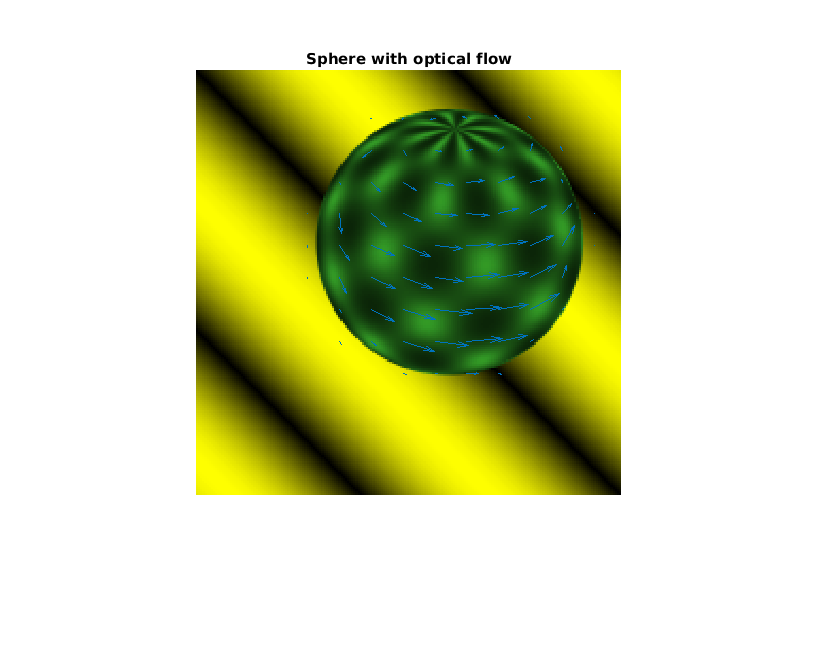
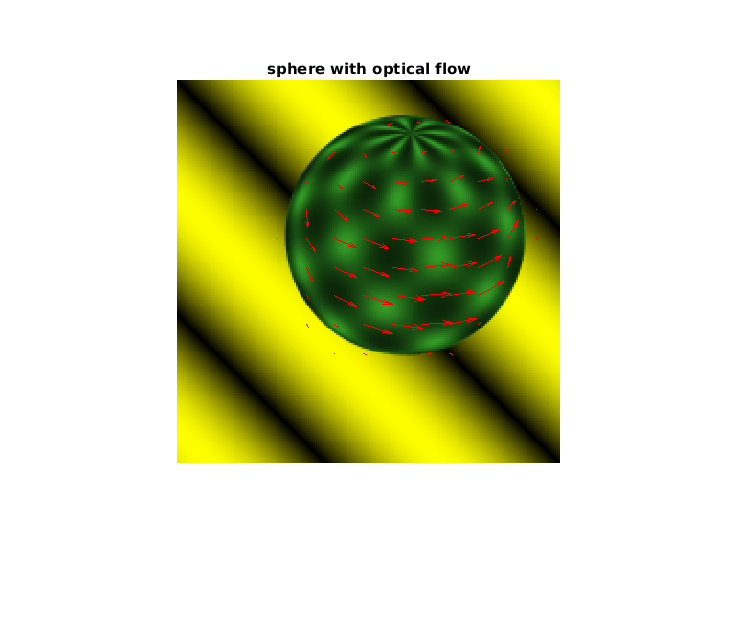
new Viz

diff --git a/assignment_3/scripts/main.m b/assignment_3/scripts/main.m
@@ -1,7 +1,7 @@
 % Uncomment for running particular part
 
-test = 'harris';
-% test = 'lucas';
+% test = 'harris';
+test = 'lucas';
 % test = 'tracking';
 
 region_size = 15;
@@ -56,8 +56,8 @@ end
 
 % 3.2 - 3.3
 if (strcmp(test,'lucas'))
-    test1 = 'syn';
-%     test1 = 'sphere';
+%     test1 = 'syn';
+    test1 = 'sphere';
     if (strcmp(test1,'syn'))
         img1 = imread('../synth1.pgm');
         img2 = imread('../synth2.pgm');
@@ -88,7 +88,9 @@ if (strcmp(test,'lucas'))
     axis equal
     imshow(img1);
     hold on
-    quiver(M(:,2) , M(:,1), u' , v');
+    q=quiver(M(:,2) , M(:,1), u' , v');
+    q.Color = 'red';
+
     
     if (strcmp(test1,'syn'))
         title('Syn with optical flow')
